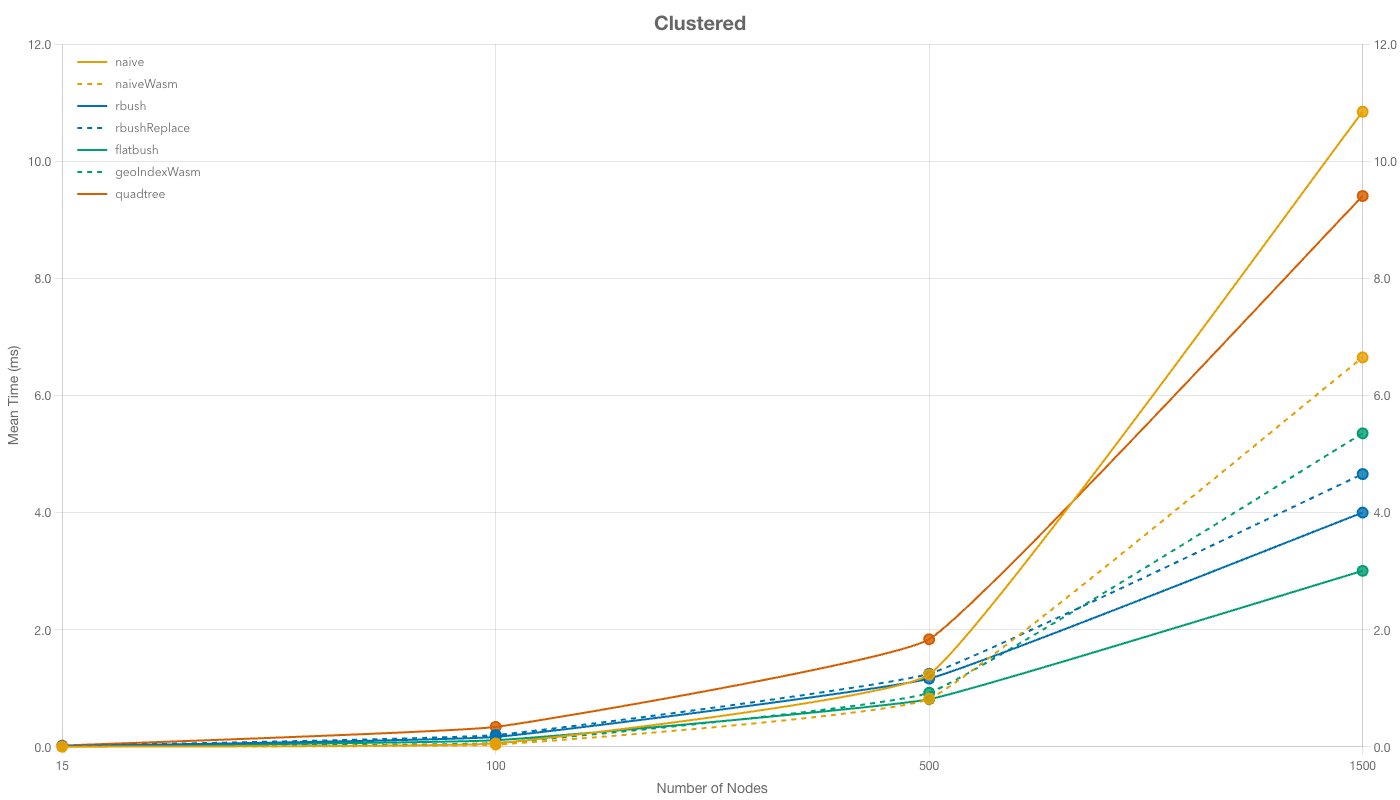
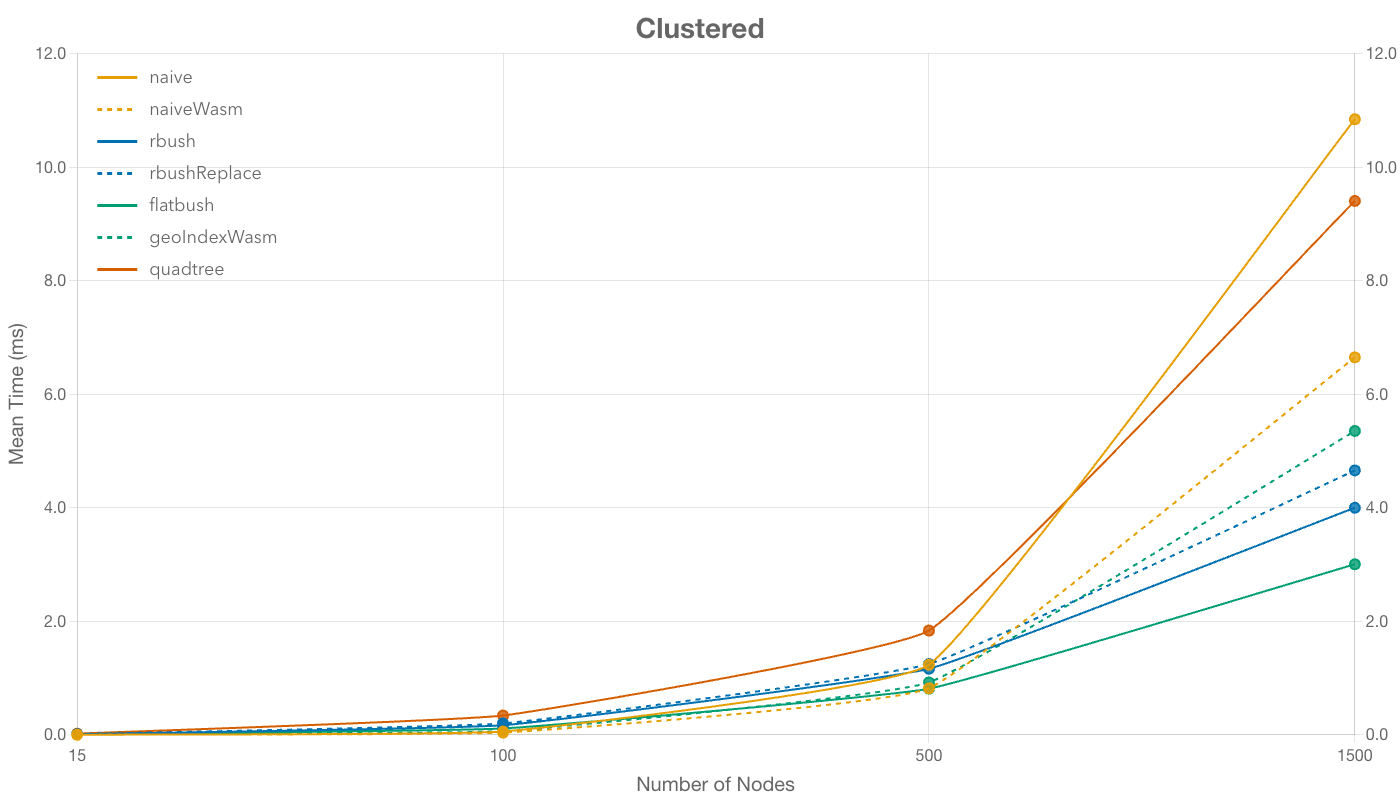
improve charts

diff --git a/scripts/generate-bench-images.ts b/scripts/generate-bench-images.ts
@@ -176,11 +176,11 @@ async function generateBenchImages() {
 					const datasets = chart.data.datasets;
 					const chartArea = chart.chartArea;
 
-					const legendX = chartArea.left + 15;
-					const legendY = chartArea.top + 15;
-					const lineHeight = 22;
-					const boxWidth = 30;
-					const boxHeight = 3;
+					const legendX = chartArea.left + 20;
+					const legendY = chartArea.top + 20;
+					const lineHeight = 32;
+					const boxWidth = 40;
+					const boxHeight = 4;
 
 					ctx.save();
 					datasets.forEach((dataset, i) => {
@@ -191,7 +191,7 @@ async function generateBenchImages() {
 						// Draw line (with dash if applicable)
 						ctx.beginPath();
 						ctx.strokeStyle = ds.borderColor as string;
-						ctx.lineWidth = 2;
+						ctx.lineWidth = 3;
 						if (ds.borderDash && ds.borderDash.length > 0) {
 							ctx.setLineDash(ds.borderDash);
 						} else {
@@ -204,9 +204,9 @@ async function generateBenchImages() {
 						// Draw label
 						ctx.setLineDash([]);
 						ctx.fillStyle = '#666';
-						ctx.font = '12px sans-serif';
+						ctx.font = '18px sans-serif';
 						ctx.textBaseline = 'middle';
-						ctx.fillText(ds.label as string, legendX + boxWidth + 8, y + boxHeight);
+						ctx.fillText(ds.label as string, legendX + boxWidth + 12, y + boxHeight);
 					});
 					ctx.restore();
 				}
@@ -243,7 +243,7 @@ async function generateBenchImages() {
 							display: true,
 							text: titleText,
 							font: {
-								size: 20,
+								size: 28,
 								weight: 'bold'
 							}
 						},
@@ -268,10 +268,13 @@ async function generateBenchImages() {
 								display: true,
 								text: 'Mean Time (ms)',
 								font: {
-									size: 14
+									size: 20
 								}
 							},
 							ticks: {
+								font: {
+									size: 16
+								},
 								callback: function (value) {
 									if (typeof value === 'number') {
 										return value.toFixed(1);
@@ -288,6 +291,9 @@ async function generateBenchImages() {
 								drawOnChartArea: false
 							},
 							ticks: {
+								font: {
+									size: 16
+								},
 								callback: function (value) {
 									if (typeof value === 'number') {
 										return value.toFixed(1);
@@ -301,7 +307,12 @@ async function generateBenchImages() {
 								display: true,
 								text: 'Number of Nodes',
 								font: {
-									size: 14
+									size: 20
+								}
+							},
+							ticks: {
+								font: {
+									size: 16
 								}
 							}
 						}
